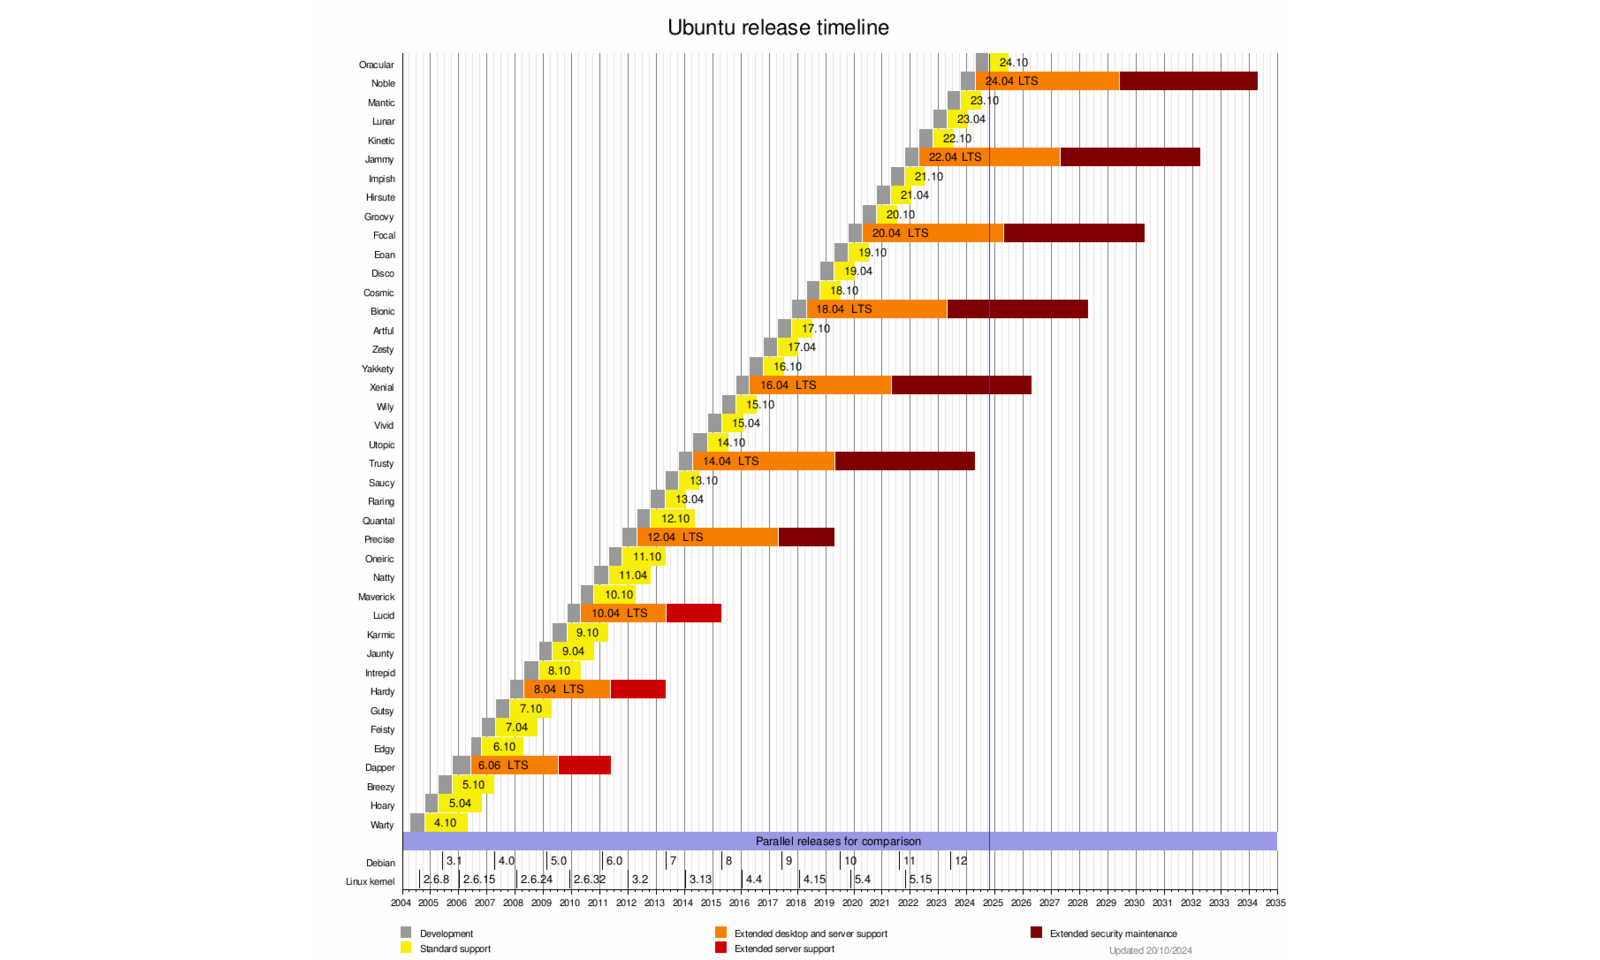
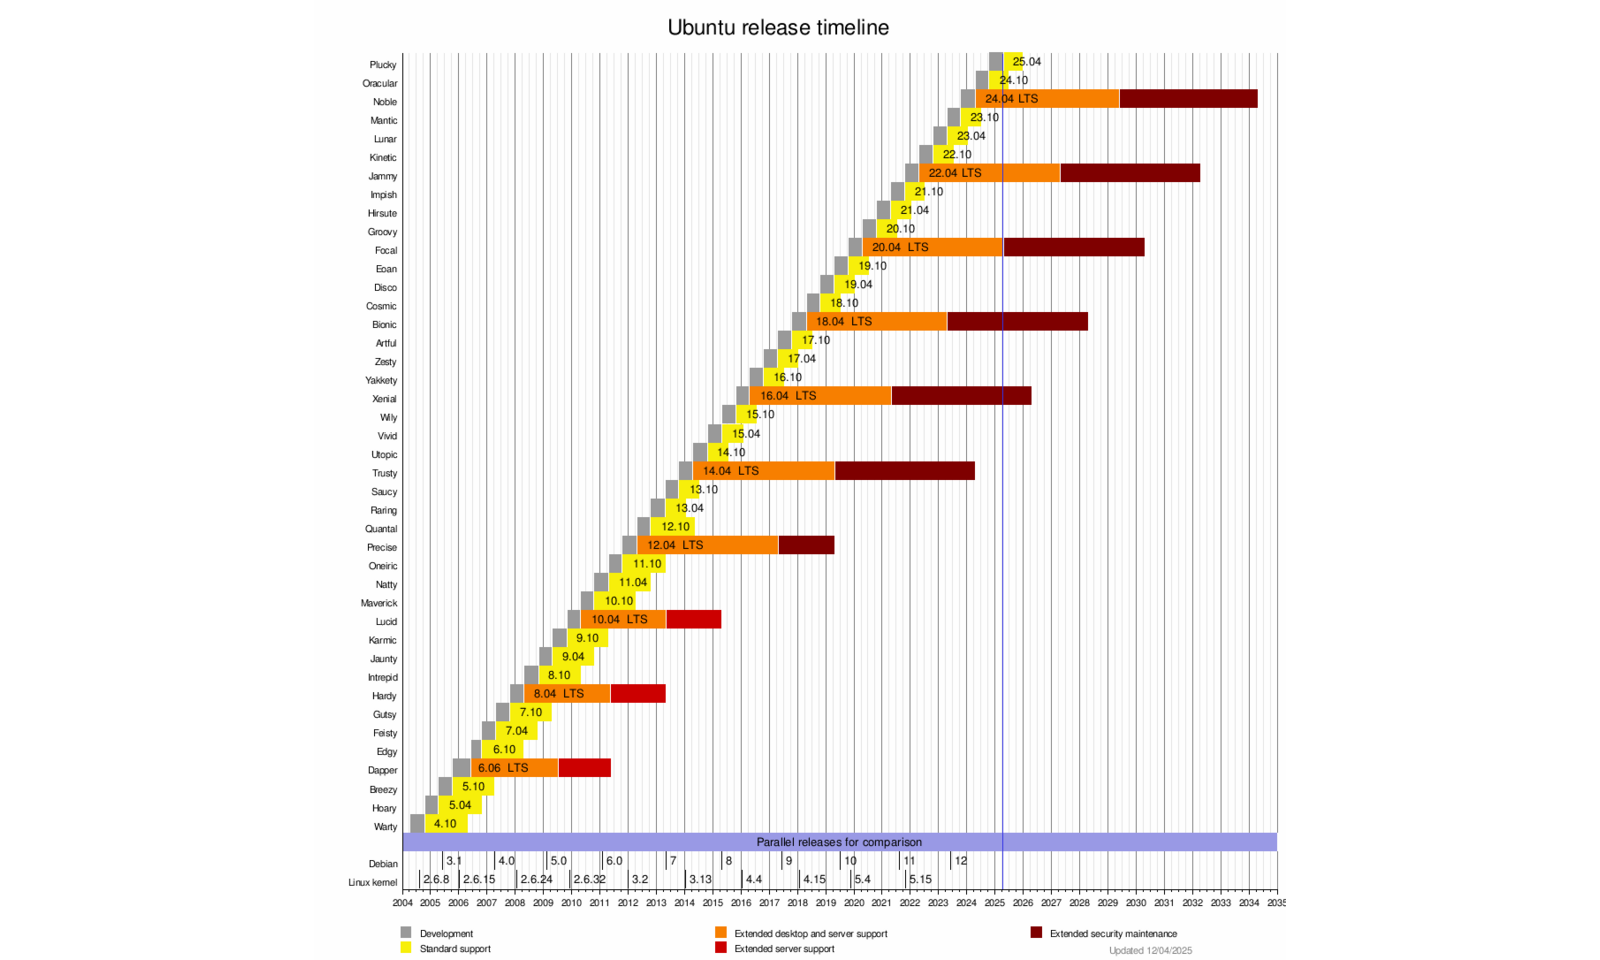
dystrybucje + memy

diff --git a/Slajdy/Linux/slides/Pochodne_RHEL.md b/Slajdy/Linux/slides/Pochodne_RHEL.md
@@ -169,8 +169,8 @@ Tylko wersje od 8.3 wzwyż.
 | 8.9    | 2023-11-14 | 2023-11-21 |          7 |
 | 8.10   | 2024-05-22 | 2024-05-28 |          6 |
 | 9.0    | 2022-05-17 | 2022-05-26 |          9 |
-| 9.2    | 2023-05-10 | 2023-05-10 |          0 |
 | 9.4    | 2024-04-30 | 2024-05-06 |          6 |
+| 9.5    | 2024-11-13 | 2024-11-18 |          5 |
 
 [źródło](https://en.wikipedia.org/wiki/AlmaLinux#Releases)
 
@@ -190,8 +190,8 @@ Tylko wersje od 8.3 wzwyż.
 | 8.9    | 2023-11-14 | 2023-11-22 |          8 |
 | 8.10   | 2024-05-22 | 2024-05-30 |          8 |
 | 9.0    | 2022-05-17 | 2022-07-15 |         58 |
-| 9.3    | 2023-11-07 | 2023-11-20 |         13 |
 | 9.4    | 2024-04-30 | 2024-05-09 |          9 |
+| 9.5    | 2024-11-12 | 2024-11-19 |          7 |
 
 [źródło](https://en.wikipedia.org/wiki/Rocky_Linux#Releases)
 

diff --git a/Slajdy/Linux/slides/Dystrybucje.md b/Slajdy/Linux/slides/Dystrybucje.md
@@ -288,10 +288,11 @@ Ubuntu 22.10 (Kinetic Kudu)
 Ubuntu 23.04 (Lunar Lobster)  
 Ubuntu 23.10 (Mantric Minotaur)  
 **Ubuntu 24.04 LTS (Noble Numbat)**  
-Ubuntu 24.10 Oracular Oriole*  
+Ubuntu 24.10 Oracular Oriole  
+Ubuntu 25.04 Plucky Puffin  
 ...  
-*Ubuntu 25.04 Plucky Puffin*  
-*Ubuntu 25.10 ...
+*Ubuntu 25.10 Questing Quokka*  
+*Ubuntu 26.04 LTS ...*
 
 <!-- .element: style="column-count: 3; font-size: 0.45em;" -->
 <!-- .slide: data-background="linear-gradient(151deg, rgba(2,0,36,1) 3%, rgba(85,30,61,1) 43%, rgba(99,33,69,1) 74%, rgba(156,58,47,1) 94%)" -->

diff --git a/Slajdy/Linux/slides/Intro.md b/Slajdy/Linux/slides/Intro.md
@@ -438,6 +438,10 @@ Ranking 500 najpotężniejszych **nierozproszonych** komputerów.
 
 ---
 <!-- .slide: data-background="#fff" -->
+![UNIX dead](img/is-unix-dead.png) <!-- .element: style="height: 50vh;" -->
+
+---
+<!-- .slide: data-background="#fff" -->
 
 ![Meme](img/linux-friends-meme.jpg) <!-- .element: style="height: 50vh;" -->
 

diff --git a/Slajdy/Linux/slides/System_plikow.md b/Slajdy/Linux/slides/System_plikow.md
@@ -243,6 +243,10 @@ Uwaga: *(prawie) wszystko jest plikiem*
 </div>
 </div>
 
+---
+<!-- .slide: data-background="#fff" -->
+![Praca domowa](img/c-drive.png) <!-- .element: style="height: 50vh;" -->
+
 ------
 <!-- .slide: data-autofragments -->
 <!-- .slide: data-background="#eee" -->
